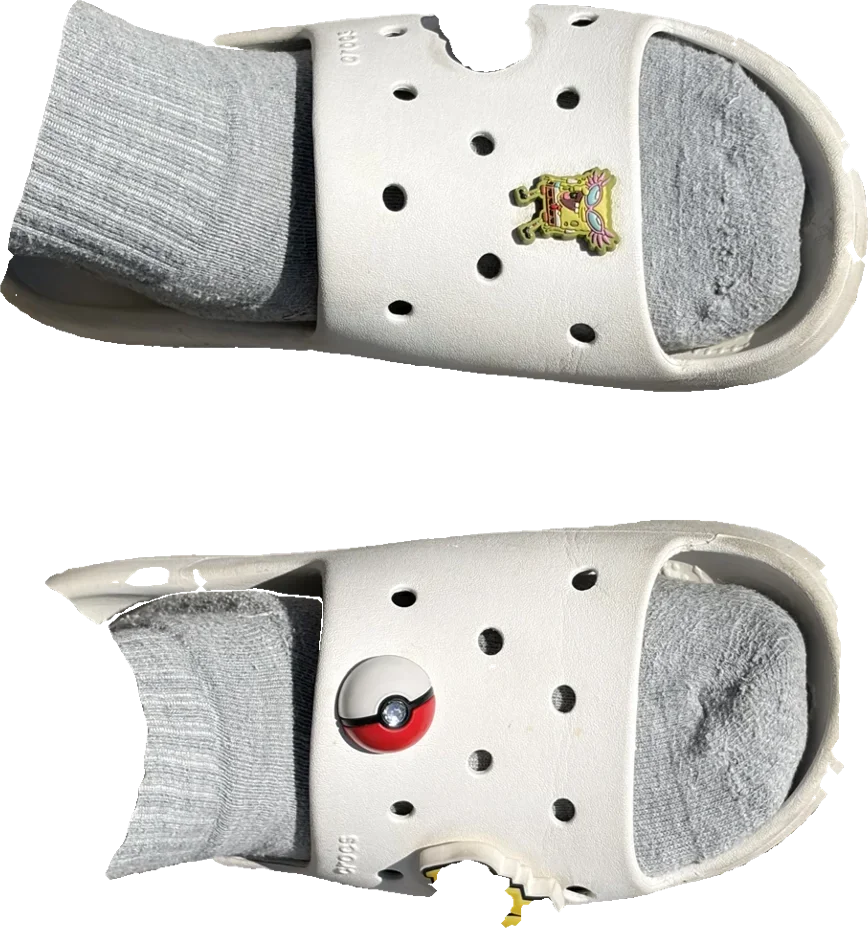
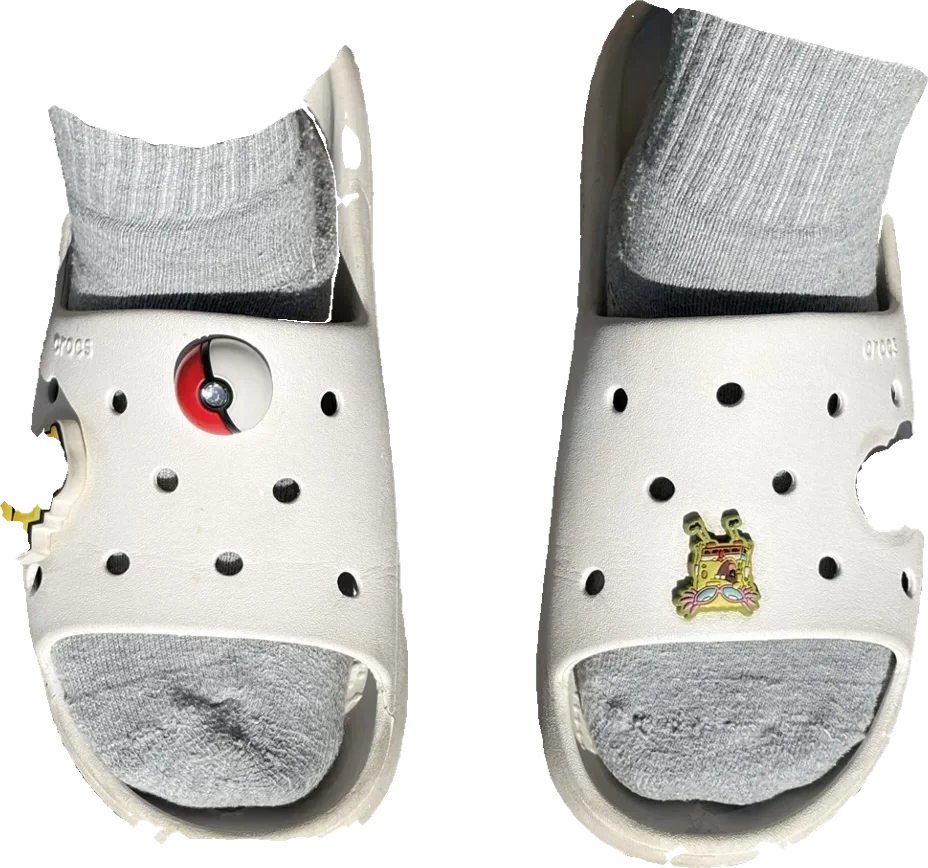
fix: 11-7·11-10 신발 앞코 아래로

diff --git a/data.js b/data.js
@@ -47,7 +47,7 @@ const PIECES = [
   "tone": {
    "L": 77
   },
-  "rot": 0,
+  "rot": 180,
   "ar": 1.708,
   "fill": 0.531
  },
@@ -243,7 +243,7 @@ const PIECES = [
    "L": 71
   },
   "rot": 0,
-  "ar": 0.935,
+  "ar": 1.069,
   "fill": 0.636
  },
  {
